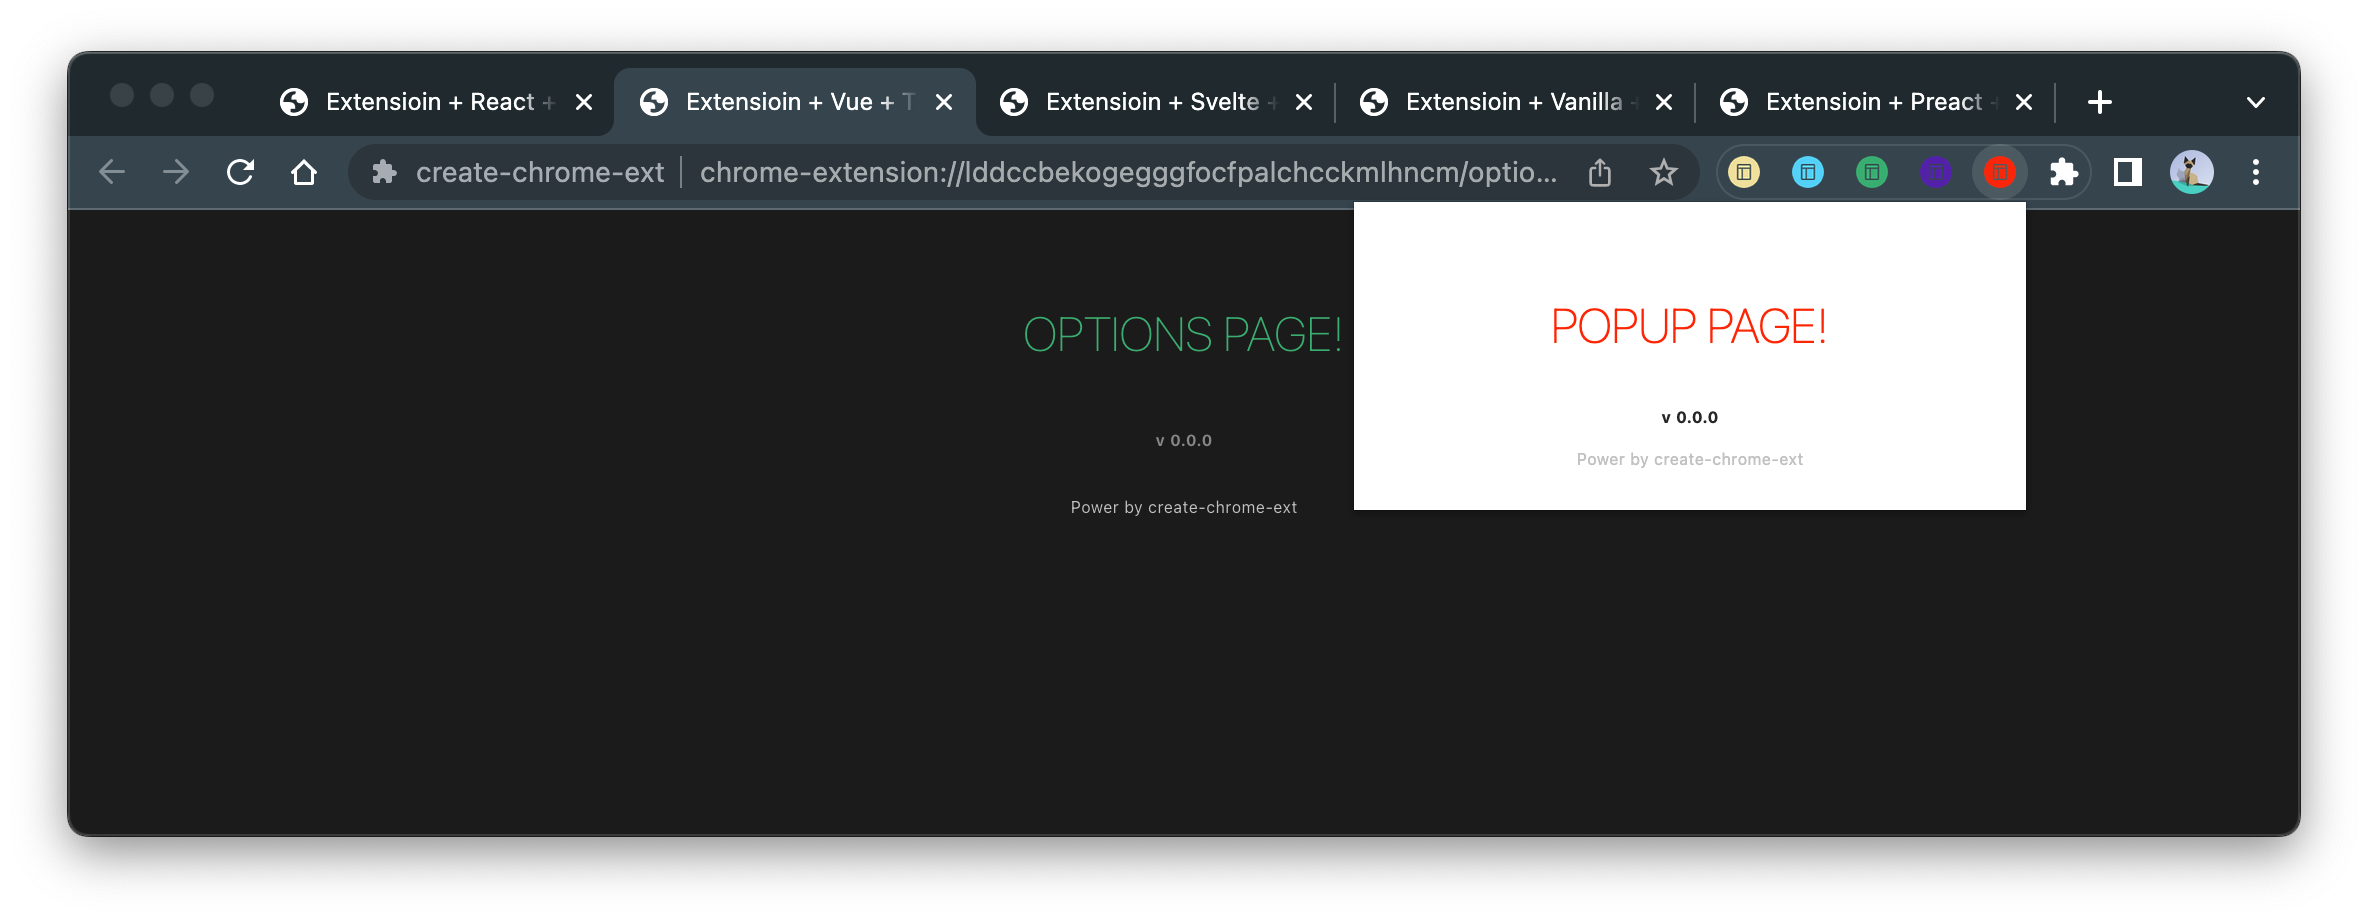
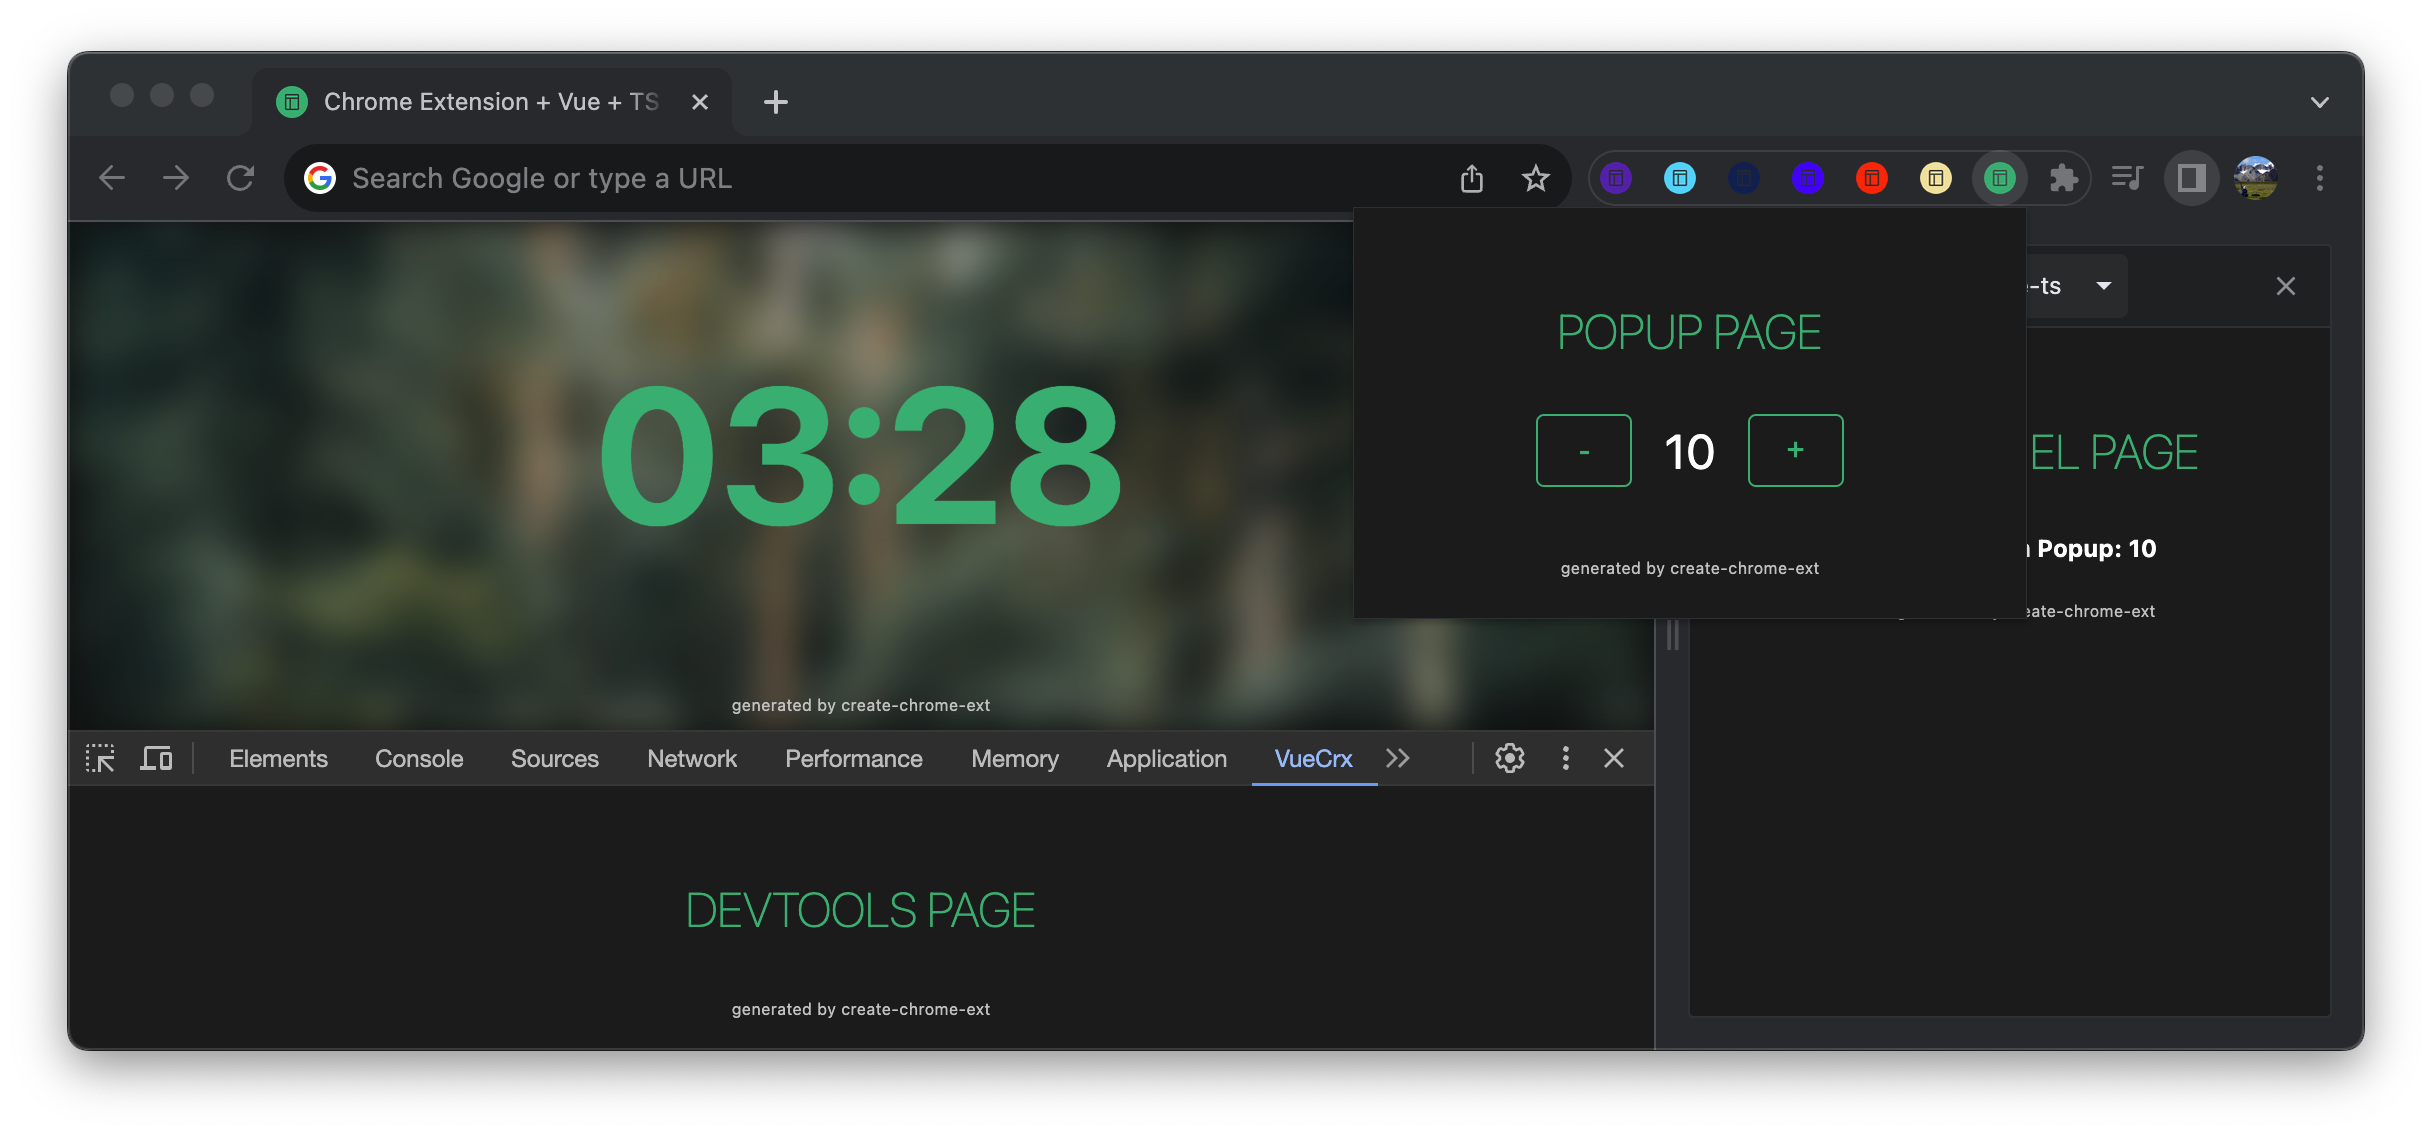
doc(preview):preview png update,0.9.0 version released

diff --git a/template-vue-ts/src/manifest.ts b/template-vue-ts/src/manifest.ts
@@ -2,21 +2,22 @@ import { defineManifest } from '@crxjs/vite-plugin'
 import packageData from '../package.json'
 
 export default defineManifest({
-  name: packageData.displayName,
+  name: packageData.name,
   description: packageData.description,
   version: packageData.version,
   manifest_version: 3,
   icons: {
-    '16': 'img/logo-16.png',
-    '32': 'img/logo-34.png',
-    '48': 'img/logo-48.png',
-    '128': 'img/logo-128.png',
+    16: 'img/logo-16.png',
+    32: 'img/logo-34.png',
+    48: 'img/logo-48.png',
+    128: 'img/logo-128.png',
   },
   action: {
     default_popup: 'popup.html',
     default_icon: 'img/logo-48.png',
   },
   options_page: 'options.html',
+  devtools_page: 'devtools.html',
   background: {
     service_worker: 'src/background/index.ts',
     type: 'module',
@@ -24,7 +25,7 @@ export default defineManifest({
   content_scripts: [
     {
       matches: ['http://*/*', 'https://*/*'],
-      js: ['src/content/index.ts'],
+      js: ['src/contentScript/index.ts'],
     },
   ],
   side_panel: {
@@ -36,5 +37,8 @@ export default defineManifest({
       matches: [],
     },
   ],
-  permissions: ['sidePanel'],
+  permissions: ['sidePanel', 'storage'],
+  chrome_url_overrides: {
+    newtab: 'newtab.html',
+  },
 })

diff --git a/CHANGELOG.md b/CHANGELOG.md
@@ -9,7 +9,7 @@ Summary
   5. version timestamp follow the yyyy.MM.dd format
 ```
 
-## 0.9.0 [xxxx.xx.xx]
+## 0.9.0 [2023.10.15]
 
 - feat: depen version update, <vite@4.x>
 - feat: support devtools \ sidepanel \ newtab override
